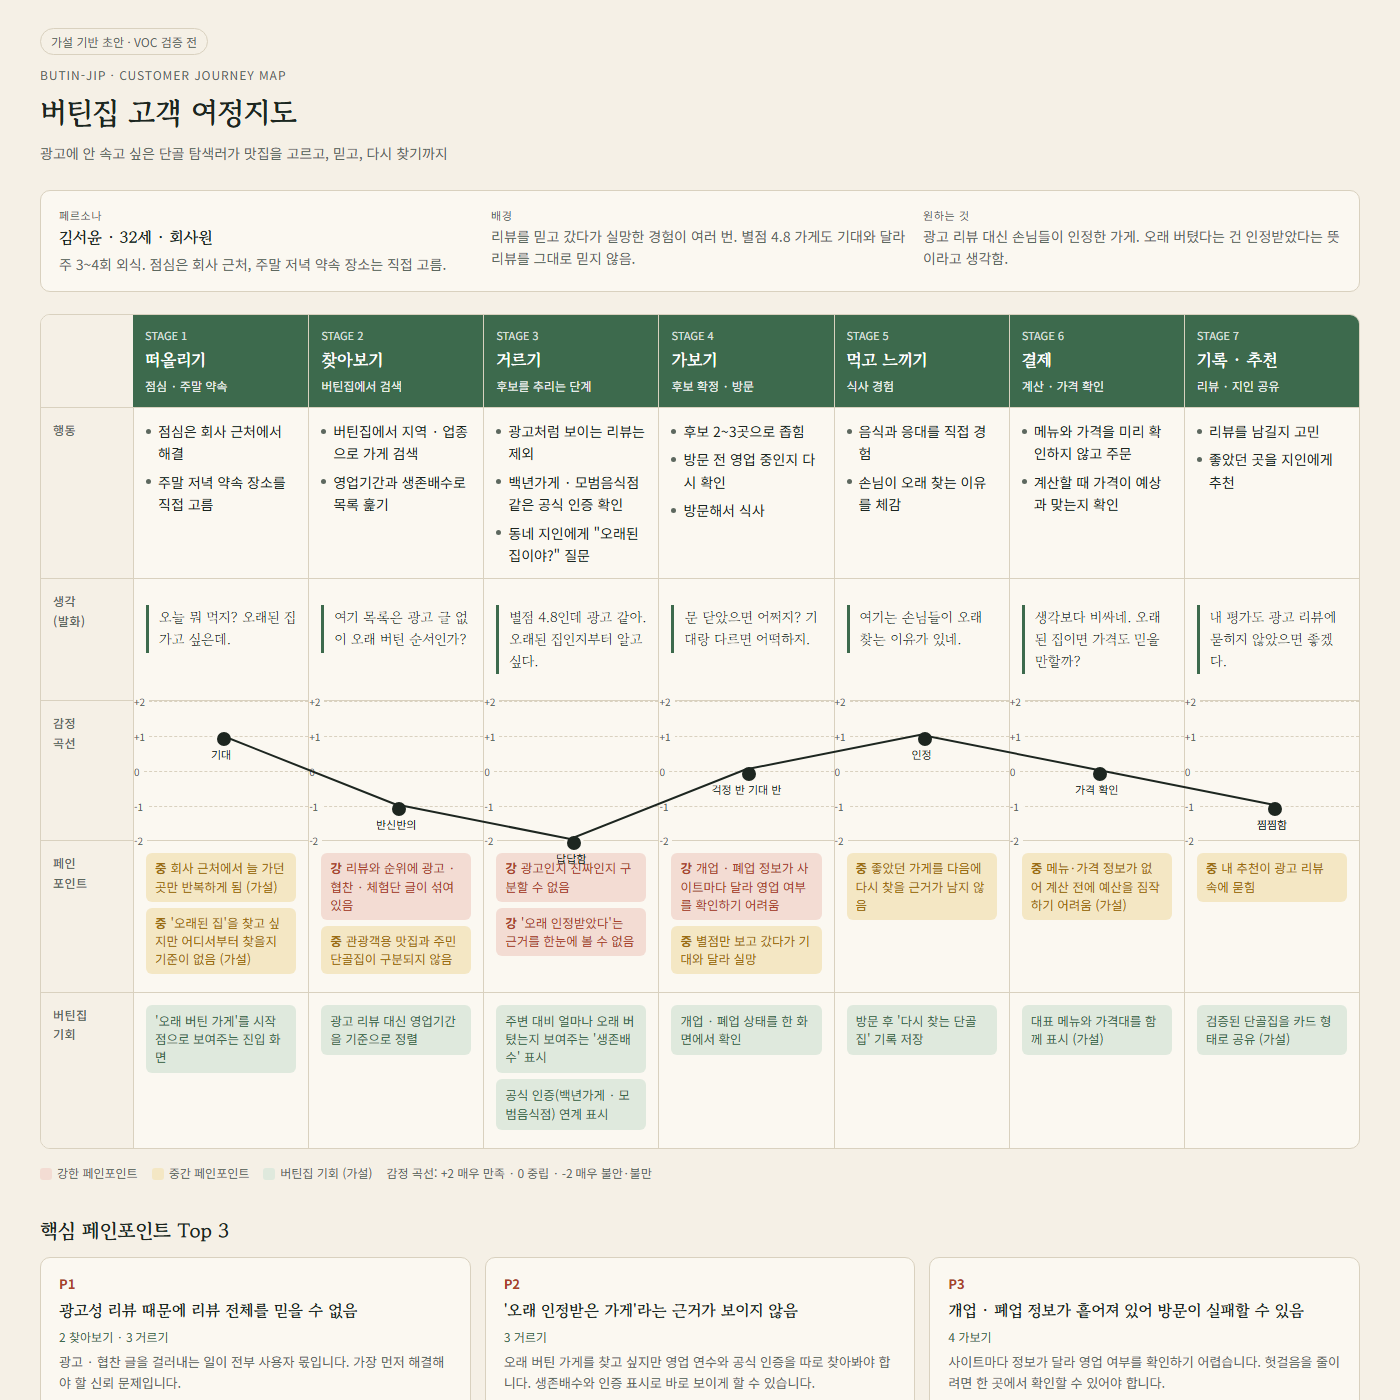
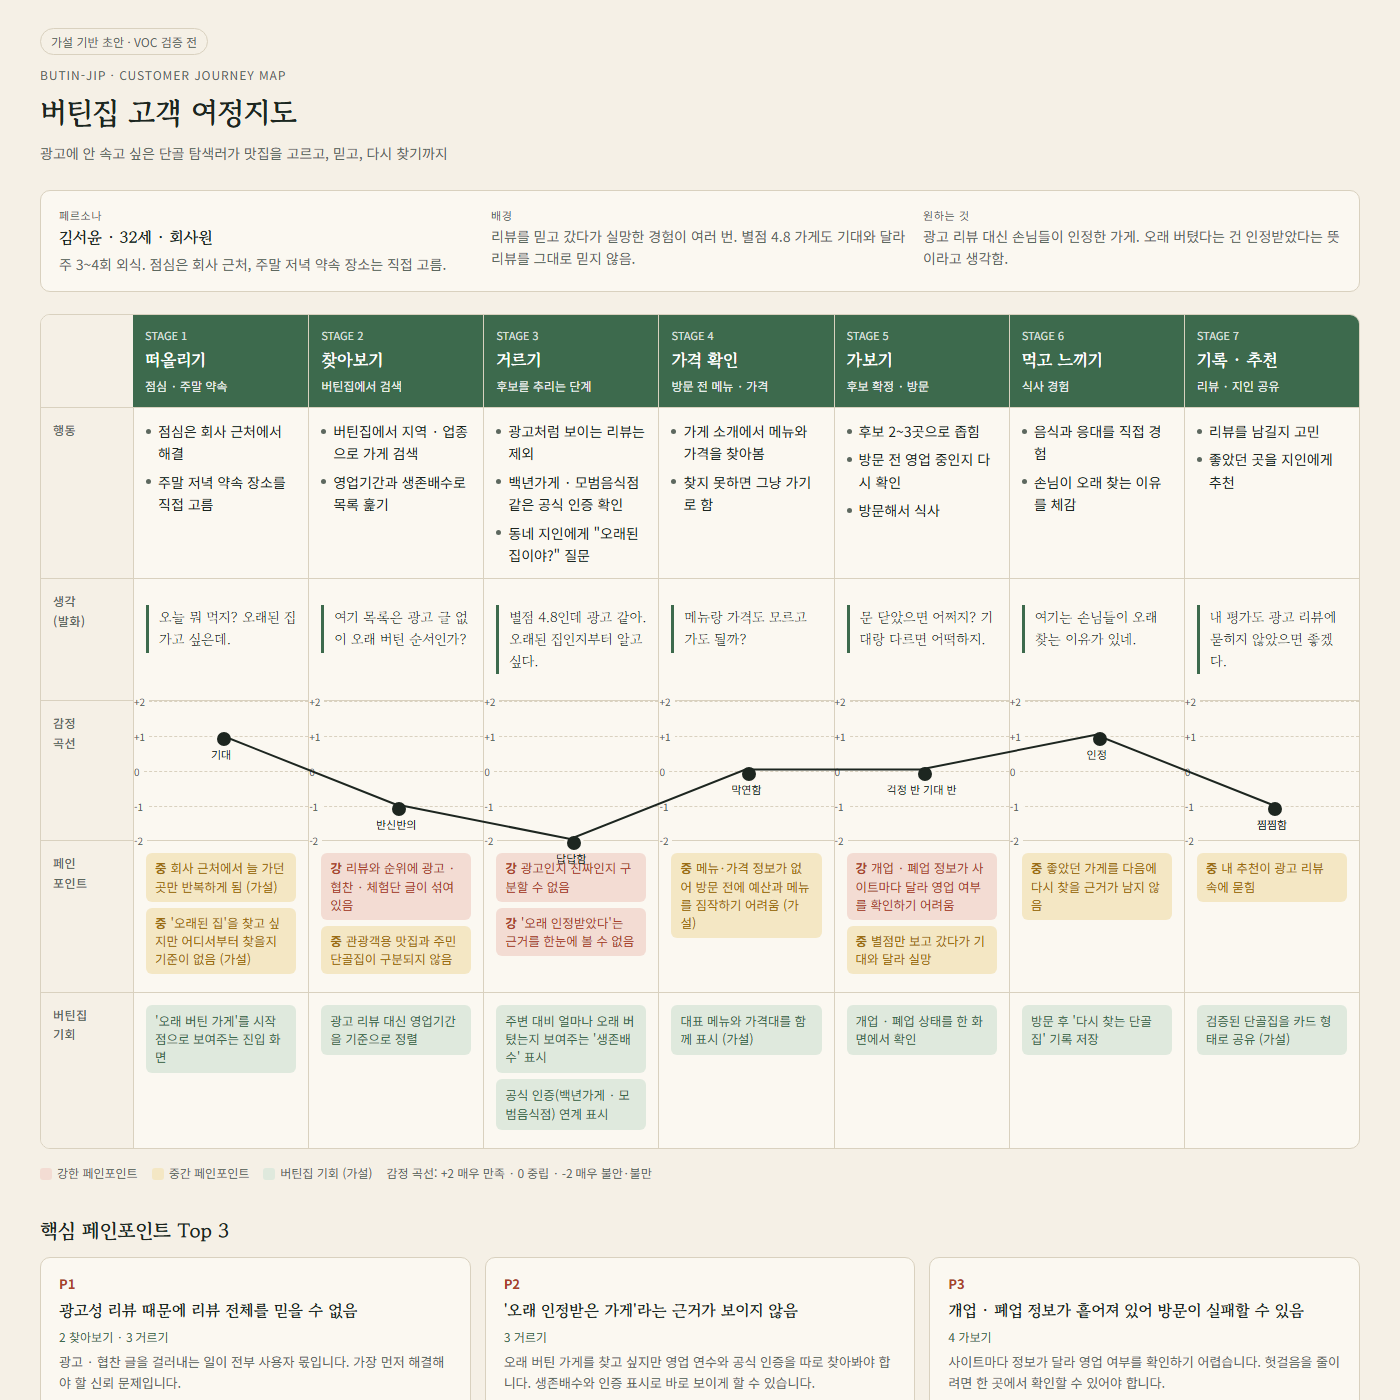
11월 9일 실습: 가격 확인 단계를 가보기 전으로 이동

diff --git a/1109실습/버틴집_고객여정지도.md b/1109실습/버틴집_고객여정지도.md
@@ -13,12 +13,12 @@
 
 ## 여정 한눈에 보기
 
-| 구분 | 1. 떠올리기 | 2. 찾아보기 | 3. 거르기 | 4. 가보기 | 5. 먹고 느끼기 | 6. 결제 | 7. 기록·추천 |
+| 구분 | 1. 떠올리기 | 2. 찾아보기 | 3. 거르기 | 4. 가격 확인 | 5. 가보기 | 6. 먹고 느끼기 | 7. 기록·추천 |
 |---|---|---|---|---|---|---|---|
-| **상황** | 점심·주말 약속 | 버틴집에서 검색 | 후보 추리기 | 후보 확정·방문 | 식사 경험 | 계산·가격 확인 | 리뷰·지인 공유 |
-| **감정 (-2~+2)** | +1 기대 | -1 반신반의 | **-2 답답함** | 0 걱정 반 기대 반 | +1 인정 | 0 가격 확인 | -1 찜찜함 |
-| **강한 페인포인트** | - | 광고·협찬 글이 섞인 리뷰와 순위 | 광고인지 진짜인지 구분 불가, 오래 인정받았다는 근거 부재 | 개·폐업 정보가 사이트마다 달라 영업 여부 확인 어려움 | - | - | - |
-| **버틴집 기회 (가설)** | '오래 버틴 가게'를 시작점으로 | 영업기간 기준 정렬 | 생존배수·영업 연수, 공식 인증 연계 표시 | 개·폐업 상태 한 화면 확인 | 다시 찾는 단골집 기록 | 대표 메뉴와 가격대 함께 표시 | 검증된 단골집 카드 공유 |
+| **상황** | 점심·주말 약속 | 버틴집에서 검색 | 후보 추리기 | 방문 전 메뉴·가격 | 후보 확정·방문 | 식사 경험 | 리뷰·지인 공유 |
+| **감정 (-2~+2)** | +1 기대 | -1 반신반의 | **-2 답답함** | 0 막연함 | 0 걱정 반 기대 반 | +1 인정 | -1 찜찜함 |
+| **강한 페인포인트** | - | 광고·협찬 글이 섞인 리뷰와 순위 | 광고인지 진짜인지 구분 불가, 오래 인정받았다는 근거 부재 | - | 개·폐업 정보가 사이트마다 달라 영업 여부 확인 어려움 | - | - |
+| **버틴집 기회 (가설)** | '오래 버틴 가게'를 시작점으로 | 영업기간 기준 정렬 | 생존배수·영업 연수, 공식 인증 연계 표시 | 대표 메뉴와 가격대 함께 표시 | 개·폐업 상태 한 화면 확인 | 다시 찾는 단골집 기록 | 검증된 단골집 카드 공유 |
 
 ## 단계별 상세
 
@@ -54,7 +54,16 @@
   - 주변 대비 얼마나 오래 버텼는지 보여주는 '생존배수' 표시
   - 공식 인증(백년가게·모범음식점) 연계 표시
 
-### 4. 가보기 (후보 확정 · 방문)
+### 4. 가격 확인 (방문 전 메뉴 · 가격)
+
+- **행동**: 가게 소개에서 메뉴와 가격을 찾아봄. 찾지 못하면 그냥 가기로 함
+- **생각(발화)**: "메뉴랑 가격도 모르고 가도 될까?"
+- **감정**: 0 (막연함)
+- **페인포인트**
+  - 🟡 **중**: 메뉴·가격 정보가 없어 방문 전에 예산과 메뉴를 짐작하기 어려움 (가설)
+- **버틴집 기회**: 대표 메뉴와 가격대를 함께 표시 (가설)
+
+### 5. 가보기 (후보 확정 · 방문)
 
 - **행동**: 후보 2~3곳으로 좁힘. 방문 전 영업 중인지 다시 확인. 방문해서 식사
 - **생각(발화)**: "문 닫았으면 어쩌지? 기대랑 다르면 어떡하지."
@@ -64,7 +73,7 @@
   - 🟡 **중**: 별점만 보고 갔다가 기대와 달라 실망
 - **버틴집 기회**: 개업·폐업 상태를 한 화면에서 확인
 
-### 5. 먹고 느끼기 (식사 경험)
+### 6. 먹고 느끼기 (식사 경험)
 
 - **행동**: 음식과 응대를 직접 경험. 손님이 오래 찾는 이유를 체감
 - **생각(발화)**: "여기는 손님들이 오래 찾는 이유가 있네."
@@ -72,15 +81,6 @@
 - **페인포인트**
   - 🟡 **중**: 좋았던 가게를 다음에 다시 찾을 근거가 남지 않음
 - **버틴집 기회**: 방문 후 '다시 찾는 단골집' 기록 저장
-
-### 6. 결제 (계산 · 가격 확인)
-
-- **행동**: 메뉴와 가격을 미리 확인하지 않고 주문. 계산할 때 가격이 예상과 맞는지 확인
-- **생각(발화)**: "생각보다 비싸네. 오래된 집이면 가격도 믿을 만할까?"
-- **감정**: 0 (가격 확인)
-- **페인포인트**
-  - 🟡 **중**: 메뉴·가격 정보가 없어 계산 전에 예산을 짐작하기 어려움 (가설)
-- **버틴집 기회**: 대표 메뉴와 가격대를 함께 표시 (가설)
 
 ### 7. 기록 · 추천 (리뷰 · 지인 공유)
 
@@ -97,7 +97,7 @@
 |---|---|---|---|
 | **P1** | 광고성 리뷰 때문에 리뷰 전체를 믿을 수 없음 | 2. 찾아보기 · 3. 거르기 | 광고·협찬 글을 걸러내는 일이 전부 사용자 몫. 가장 먼저 해결할 신뢰 문제 |
 | **P2** | '오래 인정받은 가게'라는 근거가 보이지 않음 | 3. 거르기 | 영업 연수와 공식 인증을 따로 찾아봐야 함. 생존배수와 인증 표시로 바로 보이게 할 수 있음 |
-| **P3** | 개업·폐업 정보가 흩어져 헛걸음이 생길 수 있음 | 4. 가보기 | 사이트마다 정보가 달라 영업 여부 확인이 어려움. 한 곳에서 확인할 수 있어야 함 |
+| **P3** | 개업·폐업 정보가 흩어져 헛걸음이 생길 수 있음 | 5. 가보기 | 사이트마다 정보가 달라 영업 여부 확인이 어려움. 한 곳에서 확인할 수 있어야 함 |
 
 ## 근거 및 방법
 
